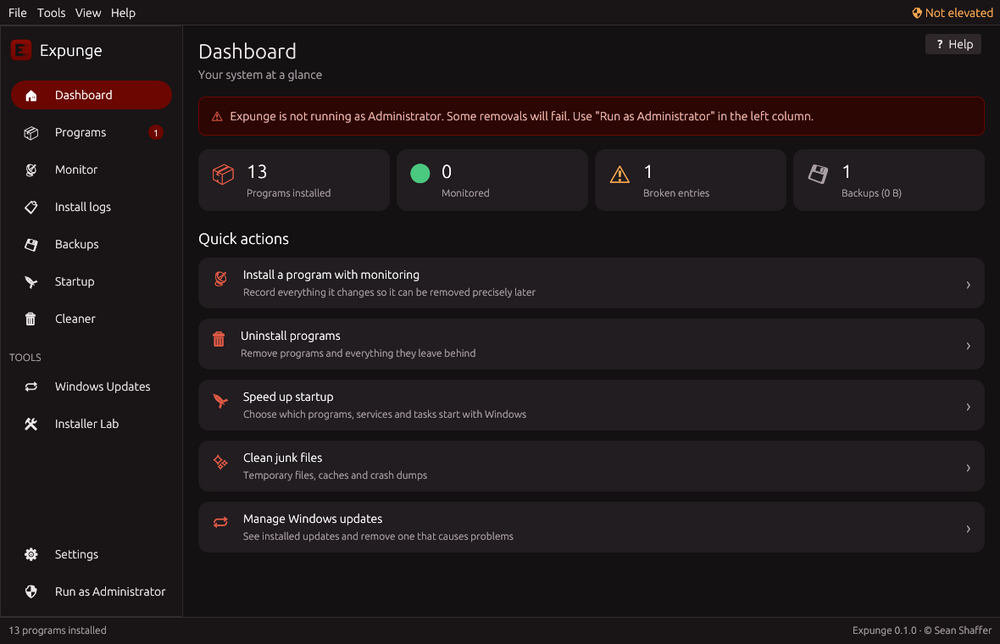
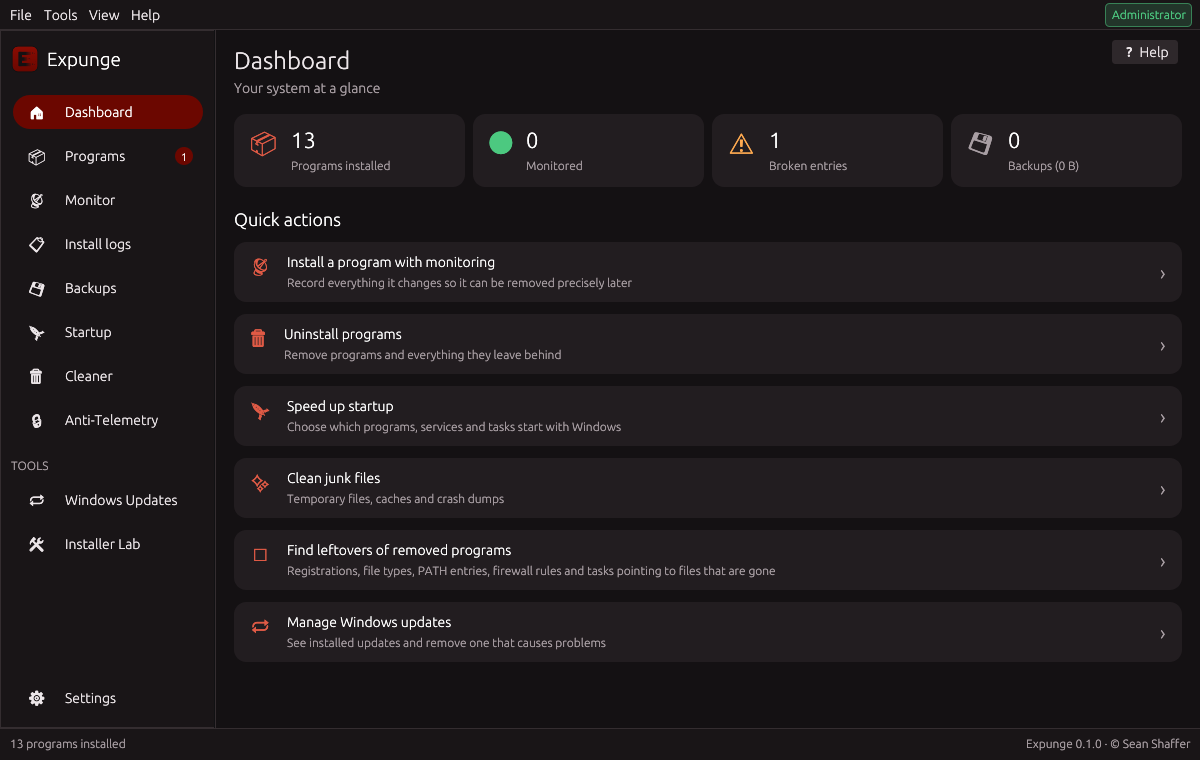
README: professional rewrite with a screenshot showcase
Reorganized and copy-edited the README, expanded the feature list
(including Anti-Telemetry and debloating), and added a six-screenshot
showcase. Demo builds gain sample startup entries, privacy states and an
EXPUNGE_DEMO_ADMIN switch for taking screenshots.

diff --git a/src/platform/mod.rs b/src/platform/mod.rs
@@ -496,6 +496,28 @@ fn demo_programs(r: &MemRegistry) {
         KeyData::new("HKLM\\SOFTWARE\\Microsoft\\Windows NT\\CurrentVersion\\Image File Execution Options\\notepad.exe")
             .with(RegValue::string("Debugger", "\"C:\\Program Files\\Notepad++\\notepad++.exe\" -notepadStyleCmdline -z")),
     );
+    // Typical Run-key autostarts for the Startup page.
+    r.put(
+        KeyData::new("HKCU\\Software\\Microsoft\\Windows\\CurrentVersion\\Run")
+            .with(RegValue::string("Discord", "\"C:\\Users\\demo\\AppData\\Local\\Discord\\Update.exe\" --processStart Discord.exe"))
+            .with(RegValue::string("OneDrive", "\"C:\\Program Files\\Microsoft OneDrive\\OneDrive.exe\" /background"))
+            .with(RegValue::string("Spotify", "\"C:\\Users\\demo\\AppData\\Roaming\\Spotify\\Spotify.exe\" --autostart --minimized")),
+    );
+    r.put(
+        KeyData::new("HKLM\\SOFTWARE\\Microsoft\\Windows\\CurrentVersion\\Run")
+            .with(RegValue::string("SecurityHealth", "%windir%\\system32\\SecurityHealthSystray.exe"))
+            .with(RegValue::string("RtkAudUService", "\"C:\\Windows\\System32\\DriverStore\\FileRepository\\realtekservice.inf_amd64\\RtkAudUService64.exe\" -background")),
+    );
+    // A couple of privacy settings already changed, so the Anti-Telemetry
+    // page shows a mix of states.
+    r.put(
+        KeyData::new("HKCU\\Software\\Microsoft\\Windows\\CurrentVersion\\AdvertisingInfo")
+            .with(RegValue::dword("Enabled", 0)),
+    );
+    r.put(
+        KeyData::new("HKCU\\Software\\Microsoft\\Windows\\CurrentVersion\\Themes\\Personalize")
+            .with(RegValue::dword("EnableTransparency", 0)),
+    );
 }
 
 #[cfg(windows)]
@@ -599,7 +621,8 @@ pub fn is_elevated() -> bool {
     }
     #[cfg(not(windows))]
     {
-        false
+        // Demo builds can pretend to be elevated, for screenshots.
+        std::env::var_os("EXPUNGE_DEMO_ADMIN").is_some()
     }
 }
 

diff --git a/README.md b/README.md
@@ -3,112 +3,150 @@
 </p>
 
 <p align="center">
-  <b>Open Source Install Monitor & Uninstaller</b> for Windows 11.<br>
-  Record what an installation changes. Remove exactly that — and nothing else.
+  <b>Open-source install monitor, uninstaller, and privacy toolkit for Windows 11</b><br>
+  Record exactly what an installation changes, then remove exactly that, and nothing else.
 </p>
 
 <p align="center">
   <a href="https://github.com/SeanShaffer88/ExpungeUninstaller/releases/latest"><img alt="Download" src="https://img.shields.io/github/v/release/SeanShaffer88/ExpungeUninstaller?label=download&color=e53935"></a>
   <a href="https://github.com/SeanShaffer88/ExpungeUninstaller/actions/workflows/ci.yml"><img alt="CI" src="https://github.com/SeanShaffer88/ExpungeUninstaller/actions/workflows/ci.yml/badge.svg"></a>
   <a href="LICENSE"><img alt="License: GPL v3" src="https://img.shields.io/badge/license-GPLv3-blue"></a>
+  <img alt="Platform: Windows 11" src="https://img.shields.io/badge/platform-Windows%2011-0078d4">
+</p>
+
+<p align="center">
+  <a href="#showcase">Showcase</a> •
+  <a href="#features">Features</a> •
+  <a href="#download">Download</a> •
+  <a href="#getting-started">Getting started</a> •
+  <a href="#command-line">Command line</a> •
+  <a href="#building-from-source">Building</a>
 </p>
 
 ---
 
-Most uninstallers run the vendor's uninstaller and then *guess* what was left behind. Free tools like Regshot can show you a before/after diff, but stop there.
+## Overview
 
-**Expunge closes that gap.** It snapshots the system before and after an installation, saves the exact list of files, folders, registry keys and values, services and scheduled tasks that changed, and later turns that record into a precise, reversible removal plan. Everything it deletes is backed up first, so every removal can be undone.
+Most uninstallers run the vendor's own uninstaller and then *guess* at what was left behind. Snapshot tools such as Regshot can show a before-and-after comparison, but they stop there.
 
-It is a free, GPL-licensed alternative to commercial tools like Total Uninstall Pro — friendly enough for someone new to computers, and deep enough for developers testing their own installers.
+**Expunge closes that gap.** It takes a snapshot of the system before and after an installation and records every file, folder, registry key and value, service, and scheduled task that changed. Later, it turns that record into a precise, reviewable removal plan. Everything Expunge deletes or modifies is backed up first, so every operation can be undone.
 
-<p align="center">
-  <img src="docs/screenshots/dashboard.png" alt="Expunge dashboard" width="49%">
-  <img src="docs/screenshots/programs.png" alt="Expunge program list" width="49%">
-</p>
+Beyond uninstalling, Expunge brings together the tools needed to keep Windows 11 lean and private: a startup manager, a junk cleaner, a debloater, and an Anti-Telemetry page with reversible privacy settings.
+
+Expunge is a free, GPL-licensed alternative to commercial tools such as Total Uninstall Pro. It is approachable enough for someone new to computers and thorough enough for developers testing their own installers.
+
+## Showcase
+
+<table>
+  <tr>
+    <td width="50%"><img src="docs/screenshots/dashboard.png" alt="Dashboard"><br><b>Dashboard</b>: an overview of installed programs, monitored installations, broken entries, and backups, with one-click access to common tasks.</td>
+    <td width="50%"><img src="docs/screenshots/programs.png" alt="Programs"><br><b>Programs</b>: every installed desktop program and Store app, with sizes, available updates, signature status, and full details for the selected program.</td>
+  </tr>
+  <tr>
+    <td width="50%"><img src="docs/screenshots/anti-telemetry.png" alt="Anti-Telemetry"><br><b>Anti-Telemetry</b>: privacy and debloating settings grouped by category, with Minimal, Standard, and Advanced presets and exact undo.</td>
+    <td width="50%"><img src="docs/screenshots/startup.png" alt="Startup manager"><br><b>Startup manager</b>: startup programs, services, scheduled tasks, and every other autostart location in one place.</td>
+  </tr>
+  <tr>
+    <td width="50%"><img src="docs/screenshots/monitor.png" alt="Install monitor"><br><b>Install monitor</b>: install a program under monitoring, or record any change manually, including Store and winget installations.</td>
+    <td width="50%"><img src="docs/screenshots/cleaner.png" alt="Junk cleaner"><br><b>Junk cleaner</b>: temporary files, crash dumps, logs, and caches, with an explanation of each category.</td>
+  </tr>
+</table>
 
 ## Features
 
-**Install monitoring**
-- **Install and monitor** — pick an installer, or just right-click it in Explorer → **Install with Expunge**; Expunge snapshots, runs it, and records every change.
-- **Manual monitoring** for anything else (Microsoft Store, winget, scripts, portable apps).
-- Monitoring **survives restarts**, so installers that need a reboot are captured correctly.
-- **Automatic exclusions** ignore temporary files, logs and browser/app caches, so logs contain only the installer's real changes. **Learn background noise** finds what your PC changes on its own and excludes it too.
-- Review the capture before saving and drop background noise with one click.
-- Detects the program's name, publisher and version automatically.
+### Install monitoring
+- **Install and monitor:** choose an installer, or right-click it in File Explorer and select **Install with Expunge**. Expunge takes a snapshot, runs the installer, and records every change.
+- **Manual monitoring** for anything else, including Microsoft Store apps, winget packages, scripts, and portable applications.
+- **Restart-safe:** monitoring continues across restarts, so installers that require a reboot are captured completely.
+- **Automatic exclusions:** temporary files, logs, and browser and application caches are ignored, so each log contains only the installer's real changes.
+- **Background-noise learning:** Expunge observes what your PC changes on its own and offers to exclude it from future captures.
+- **Review before saving:** inspect every captured change and discard background noise with one click.
+- **Automatic detection** of the program's name, publisher, and version.
 
-**Precise uninstall**
-- Reverts a monitored installation exactly: deletes added files, folders, keys and values, **restores** values the installer changed or removed, stops and deletes services, removes scheduled tasks.
-- **Smart PATH repair** — removes only the entries the installer added to `PATH`, keeping changes you made since.
-- Files the program created later (settings, caches) are kept unless you choose to remove them.
-- Locked files are scheduled for deletion at the next restart.
+### Precise uninstallation
+- **Exact reversal** of a monitored installation: added files, folders, registry keys, and values are deleted; values the installer changed or removed are **restored**; services are stopped and deleted; and scheduled tasks are removed.
+- **Smart PATH repair:** only the entries the installer added to `PATH` are removed; changes you made afterward are preserved.
+- **User data is respected:** files the program created later, such as settings and caches, are kept unless you choose to remove them.
+- **Locked files** are scheduled for deletion at the next restart.
 
-**Classic uninstaller (for programs that weren't monitored)**
-- Lists desktop programs (64-bit, 32-bit, per-user) with their icons, plus Microsoft Store apps.
-- Runs the vendor uninstaller, then scans for leftovers: folders, shortcuts, registry keys, autostart entries, App Paths, services, COM registrations, file types and associations, context-menu entries and shell extensions, environment variables and `PATH` entries, firewall rules, scheduled tasks, and folders left empty.
-- **Unattended batch uninstall**: queue any number of programs and walk away. Silent switches are detected per installer type (Windows Installer, Inno Setup, NSIS, WiX, Squirrel), uninstallers run one at a time, restarts are held until the end, stuck ones are skipped, and one combined leftover scan follows.
-- **Silent uninstall** for a single program, and **forced removal** when the uninstaller is broken.
-- **Broken entry finder** for programs whose uninstaller or folder no longer exists.
-- **Leftovers of removed programs**: a system-wide scan for registrations, file types, shell extensions, PATH entries, firewall rules and tasks that point to files that are gone.
-- **Trust info**: shows who digitally signed each program, and flags unsigned programs and broken signatures (possible tampering).
-- Real folder sizes for programs that don't report one.
-- **Updates via winget**: see which programs have a newer version and update one or all of them silently.
+### Classic uninstaller
+For programs that were installed without monitoring:
+- **Complete program list:** 64-bit, 32-bit, and per-user desktop programs with their icons, plus Microsoft Store apps.
+- **Deep leftover scan:** after the vendor's uninstaller finishes, Expunge searches for remaining folders, shortcuts, registry keys, autostart entries, App Paths, services, COM registrations, file types and associations, context-menu entries, shell extensions, environment variables, `PATH` entries, firewall rules, scheduled tasks, and folders left empty.
+- **Unattended batch uninstallation:** queue any number of programs and walk away. Silent switches are detected for each installer technology (Windows Installer, Inno Setup, NSIS, WiX, and Squirrel); uninstallers run one at a time; restarts are deferred until the end; stalled uninstallers are skipped; and a single combined leftover scan follows.
+- **Silent uninstallation** for individual programs, and **forced removal** when a program's uninstaller is broken or missing.
+- **Broken-entry finder** for programs whose uninstaller or installation folder no longer exists.
+- **Orphan scan:** a system-wide search for registrations, file types, shell extensions, `PATH` entries, firewall rules, and tasks that point to files that no longer exist.
+- **Trust information:** shows who digitally signed each program, and flags unsigned programs and invalid signatures that may indicate tampering.
+- **Accurate sizes** for programs that do not report their own.
+- **Updates through winget:** see which programs have newer versions and update one or all of them silently.
+
+### Anti-Telemetry and debloating
+- **Telemetry and data collection:** limit diagnostic data to the minimum, turn off the advertising ID, app-launch tracking, typing and handwriting data collection, cloud search and Cortana, and the inventory and compatibility reporters.
+- **Privacy and app permissions:** deny Store apps access to the camera, microphone, location, contacts, calendar, call history, email, and messages; turn off location services; stop background apps; and remove tips, ads, and automatically installed apps.
+- **Bloatware and AI features:** remove pre-installed consumer apps (optionally for new user accounts as well), and turn off Windows Copilot and Recall.
+- **Explorer and search:** restore the full context menu, open File Explorer to *This PC* with file extensions and hidden files visible, turn off transparency effects, and stop the search indexer.
+- **Services:** disable DiagTrack, dmwappushservice, Windows Error Reporting, and, optionally, SysMain.
+- **Windows Update control:** defer feature updates by 365 days and quality updates by four days, or pause updates for seven days.
+- **Network:** stop automatic connections to open hotspots, and switch to a secure DNS provider (Cloudflare, Quad9, Google, or AdGuard) with one click.
+- **Performance and repair:** enable the Ultimate Performance power plan, and run System File Checker, DISM RestoreHealth, a network reset, or winget re-registration.
+- **Built-in safeguards:** Minimal, Standard, and Advanced presets; a restore point before every change; and a record of every previous value, so each setting can be reversed exactly.
+
+### System tools
+- **Startup manager:** Run keys and Startup folders (with Task Manager–compatible enabling and disabling), services and drivers, and scheduled tasks. Advanced mode adds every other autostart location: Winlogon, Active Setup, Image File Execution Options, AppInit DLLs, Explorer extensions, icon overlays, browser helper objects, boot-time programs, and WMI subscriptions.
+- **Junk cleaner:** temporary files, crash and memory dumps, Windows logs, Delivery Optimization and Windows Update downloads, shader and browser caches, Prefetch data, and the Recycle Bin.
+- **Deep cleanup** (Advanced mode): the previous Windows installation (Windows.old), superseded Windows components, files of disabled features, and old restore points. Each item is analyzed first and confirmed separately.
+- **Windows Updates manager** (Advanced mode): list installed updates and uninstall individual ones. Permanent servicing-stack updates are clearly labeled.
 - **Windows features and app aliases** (Advanced mode): turn optional Windows features on or off, and see which app execution aliases are active.
+- **Program transfer:** package programs together with their files, settings, and registry entries, then restore them on another PC. Includes a compatibility check, automatic path rewriting for different user names or drives, and one-click undo.
+- **"Which program created this?":** search for any file or registry path across all monitored installations.
+- **Repackaging:** turn a monitored installation into a deployable folder containing a silent `install.ps1`, an `install.reg`, and an `uninstall.ps1`.
+- **Export** install logs as an HTML report, a `.reg` undo script, a PowerShell removal script, or JSON for import on another PC.
 
-**Safety first**
-- Automatic **backups** of everything removed or changed — files go to a quarantine folder and registry entries are also exported as a timestamped `.reg` file you can double-click to restore. Restore any operation from the Backups page.
-- Optionally send removed files to the **Recycle Bin** as well.
-- Optional **System Restore point** before uninstalling.
-- Hard-coded protection for critical folders and registry keys — they can never be deleted, whatever a log says.
+### Safety
+- **Automatic backups** of everything removed or changed. Files are moved to a quarantine folder, and registry entries are also exported to a timestamped `.reg` file that can be restored with a double-click. Any operation can be restored from the Backups page.
+- **Optional Recycle Bin copies** of removed files.
+- **Optional System Restore point** before uninstalling.
+- **Hard-coded protection** for critical folders and registry keys: they can never be deleted, regardless of what a log contains.
+- **Safety labels** on every removal item: *Safe*, *Review*, or *Careful*.
 
-**Tools**
-- **Anti-Telemetry**: turn off Windows telemetry, ads, suggestions, Copilot and Recall; restrict app permissions; delay or pause updates; set a private DNS; remove pre-installed apps; run Windows repair tools. Minimal / Standard / Advanced presets, a restore point before every change, and exact one-click undo.
-- **Windows Updates** window (Advanced mode): list installed updates and uninstall individual ones (uses DISM, which works for modern cumulative updates; permanent servicing-stack updates are labelled).
-- **Startup manager**: Run keys and Startup folders (Task Manager-compatible enable/disable), services and drivers, scheduled tasks, plus (Advanced) every other autostart location: Winlogon, Active Setup, program replacements, AppInit DLLs, Explorer extensions, icon overlays, browser helpers, boot programs and WMI subscriptions.
-- **Junk cleaner**: temp files, crash and memory dumps, Windows logs, Delivery Optimization and Windows Update downloads, shader and browser caches, Prefetch, Recycle Bin.
-- **Deep cleanup** (Advanced): previous Windows installation (Windows.old), outdated Windows components (DISM), files of turned-off features, and old restore points, each analyzed first and confirmed separately.
-- **Transfer programs to another PC**: pack programs with their files, settings and registry entries into one file and restore them on a new PC, with a compatibility check, path rewriting for different user names or drives, and one-click undo.
-- **"Which program created this?"** — search any file or registry path across all monitored installs.
-- **Repackage** a monitored installation as a folder with a silent `install.ps1`, `install.reg` and `uninstall.ps1`, for deploying it to other PCs.
-- **Export** install logs as an HTML report, a `.reg` undo script, a PowerShell removal script, or JSON (import them on another PC).
+### Accessibility and ease of use
+- **Simple and Advanced modes**, chosen on first launch. Simple mode uses plain language and offers only options that cannot harm Windows or slow the PC; Advanced mode shows every tool and technical detail.
+- **Contextual help** on every page (the Help button or F1), explaining terms such as *snapshot* and *leftover* in everyday language.
+- **Full keyboard access:** a visible focus ring, arrow-key navigation in lists, Esc to close dialogs, and shortcuts for every page (Ctrl+1 to Ctrl+9, Ctrl+Tab, Ctrl+F, F5, Delete, and F1).
+- **Screen-reader support** for Narrator and NVDA, adjustable text size, and a high-contrast option.
 
-**For everyone**
-- **Fully keyboard accessible** and screen-reader friendly (Narrator, NVDA): visible focus ring, arrow-key lists, Esc closes dialogs, shortcuts for every page.
-- **Simple and Advanced modes**, chosen on first launch. Simple mode uses plain language and only offers options that can't harm Windows or slow the PC; Advanced mode shows every technical detail and tool.
-- **Help on every page** (Help button or F1) explaining terms like *snapshot* and *leftover* in everyday words.
-- **Safety labels** on every removal item: *Safe*, *Review* or *Careful*.
-- **Accessible**: screen-reader support, adjustable text size, high-contrast option, full keyboard shortcuts (Ctrl+1–9 pages, Ctrl+F search, F5 refresh, Delete uninstall, F1 help).
+### For developers: Installer Lab
+- **Installer lint:** reviews a recorded installation for common packaging mistakes, such as a missing or incomplete uninstall entry, files written to System32, per-user data from per-machine installations, `PATH` edits, autostart entries, services, scheduled tasks, shell extensions, file associations, firewall rules, and changes to shared values. Each finding includes advice, and the report can be exported as Markdown.
+- **Uninstaller test:** runs your program's own uninstaller and reports exactly what it left behind or failed to restore, then optionally cleans it up.
+- **Snapshot comparison:** take named snapshots at any time and compare any two.
+- **CI-ready command line:** `lint` and `test-uninstall` commands with exit codes and `--json` output for build pipelines.
 
-**For developers — Installer Lab**
-- **Installer lint**: reviews a recorded installation for packaging mistakes (missing or incomplete uninstall entry, files in System32, per-user data from per-machine installs, PATH edits, autostart, services, scheduled tasks, shell extensions, file associations, firewall rules, changed shared values) with advice for each. Export as Markdown.
-- **Uninstaller test**: runs your program's own uninstaller and reports exactly what it left behind or failed to restore — then cleans it up if you want.
-- **Snapshot compare**: take named snapshots any time and diff any two.
-- **CI-ready CLI**: `lint` and `test-uninstall` commands with exit codes and `--json` output for build pipelines.
-
-**And**
-- Dark interface with a native red Windows 11 window border.
-- **9 languages**: English, Español, Deutsch, Français, Português (Brasil), Italiano, Русский, 简体中文, 日本語 — add more without recompiling (see [Translating](docs/TRANSLATING.md)).
-- Admin check at every launch, with one-click relaunch as Administrator.
-- **No dependencies**: a single native exe; no .NET, no Visual C++ runtime, nothing to download.
-- Installer **or** portable mode.
-- Full **command line** for scripting.
+### Design and distribution
+- **Built for Windows 11:** a dark interface with a native red Windows 11 window border.
+- **Nine languages:** English, Español, Deutsch, Français, Português (Brasil), Italiano, Русский, 简体中文, and 日本語. Additional languages can be added without recompiling (see [Translating](docs/TRANSLATING.md)).
+- **Administrator check** at every launch, with a one-click relaunch as administrator.
+- **No dependencies:** a single native executable, with no .NET, no Visual C++ runtime, and nothing else to download.
+- **Installer or portable:** use whichever suits you.
+- **Full command line** for scripting and automation.
 
 ## Download
 
-Get the latest version from the [Releases page](https://github.com/SeanShaffer88/ExpungeUninstaller/releases/latest):
+Download the latest version from the [Releases page](https://github.com/SeanShaffer88/ExpungeUninstaller/releases/latest).
 
-| File | What it is |
+| File | Description |
 |---|---|
-| `Expunge-Setup-x.y.z.exe` | Installer: Program Files, Start menu, Apps & features entry |
-| `Expunge-x.y.z-portable.zip` | Portable: unzip anywhere; data stays next to the exe |
+| `Expunge-Setup-x.y.z.exe` | Installer: installs to Program Files and adds a Start menu shortcut and an *Installed apps* entry. |
+| `Expunge-x.y.z-portable.zip` | Portable: unzip anywhere; all data is stored next to the executable. |
 
-Requirements: Windows 11 (build 22000 or later), 64-bit. Expunge is built for Windows 11 only and will not start on older Windows. Run as Administrator for full functionality — Expunge offers to relaunch itself elevated.
+**System requirements:** 64-bit Windows 11 (build 22000 or later). Expunge is designed exclusively for Windows 11 and will not start on earlier versions of Windows. Administrator rights are required for full functionality; Expunge offers to relaunch itself with elevated rights.
 
-## How to use it
+## Getting started
 
-1. **Monitor → Choose installer…** and pick a setup file. Wait for the "before" snapshot.
-2. Install the program normally (run it once if you like, so first-run settings are captured too).
-3. Click **Finish monitoring**, review the changes, and **Save install log**.
-4. Later: **Programs** (or **Install logs**) → **Uninstall**. Review the plan and remove. Changed your mind? **Backups → Restore**.
+1. Select **Monitor → Choose installer…** and pick a setup file. Wait for the "before" snapshot to finish.
+2. Install the program as usual. Optionally, run it once so that its first-run settings are captured as well.
+3. Click **Finish monitoring**, review the changes, and click **Save install log**.
+4. When you want to remove the program, go to **Programs** (or **Install logs**) and click **Uninstall**. Review the plan, then confirm. If you change your mind, use **Backups → Restore**.
 
 ## Command line
 
@@ -129,12 +167,12 @@ expunge transfer import moved.expunge
 expunge --help
 ```
 
-Installer QA in a build pipeline:
+Installer quality checks in a build pipeline:
 
 ```
 expunge monitor --name MyApp --no-prompt --json -- dist\MyApp-Setup.exe /S
-expunge lint <log-id> --strict          # exit 2 on errors/warnings
-expunge test-uninstall <log-id> --quiet # exit 2 if anything was left behind
+expunge lint <log-id> --strict          # exits with code 2 on errors or warnings
+expunge test-uninstall <log-id> --quiet # exits with code 2 if anything was left behind
 ```
 
 ## Building from source
@@ -145,26 +183,26 @@ cd ExpungeUninstaller
 cargo build --release
 ```
 
-Builds with Rust (stable) on Windows. **No Visual Studio on your PC?** Push to GitHub and let the included Actions workflow build it, or cross-compile from Linux (see `scripts/cross-env.sh`). Releases are built automatically when a `v*` tag is pushed.
+Expunge builds with stable Rust on Windows. If Visual Studio is not installed, push to GitHub and let the included Actions workflow build it, or cross-compile from Linux (see `scripts/cross-env.sh`). Releases are built automatically when a `v*` tag is pushed.
 
-The engine (`src/` minus `gui/`) is platform-independent and fully unit-tested with an in-memory registry: `cargo test --lib`.
+The core engine (`src/`, excluding `gui/`) is fully unit-tested against an in-memory registry: `cargo test --lib`.
 
 ## How it works
 
-| Step | What happens |
+| Stage | What happens |
 |---|---|
-| Snapshot | Registry keys and values (raw data, every type) and file metadata under configurable roots, skipping known Windows noise |
-| Diff | Added/removed/changed keys, values and files, compared case-insensitively like Windows |
-| Plan | Services and tasks first, then files, folders (deepest first), registry deletions, then restores |
-| Execute | Every step is backed up first; protected locations are refused; locked files go to delete-on-reboot |
-| Undo | Backups replay in reverse to put everything back |
+| Snapshot | Registry keys and values (raw data of every type) and file metadata are recorded under configurable locations, skipping known Windows noise. |
+| Comparison | Added, removed, and changed keys, values, and files are identified, compared case-insensitively as Windows does. |
+| Plan | Services and tasks are handled first, then files, then folders (deepest first), then registry deletions, and finally restorations. |
+| Execution | Every step is backed up first; protected locations are refused; locked files are scheduled for deletion at restart. |
+| Undo | Backups are replayed in reverse order to restore everything. |
 
 ## Roadmap
 
-See [ROADMAP.md](ROADMAP.md). Ideas and pull requests are welcome — see [CONTRIBUTING.md](CONTRIBUTING.md).
+See [ROADMAP.md](ROADMAP.md). Ideas and pull requests are welcome; see [CONTRIBUTING.md](CONTRIBUTING.md) for guidelines.
 
 ## License
 
 Copyright © 2026 Sean Shaffer.
 
-Expunge is free software: you can redistribute it and/or modify it under the terms of the **GNU General Public License v3** (or any later version). See [LICENSE](LICENSE).
+Expunge is free software: you can redistribute it and/or modify it under the terms of the **GNU General Public License, version 3** (or, at your option, any later version). See [LICENSE](LICENSE) for details.

diff --git a/CHANGELOG.md b/CHANGELOG.md
@@ -7,7 +7,7 @@ All notable changes to Expunge are documented here. The format follows
 ## [Unreleased]
 
 ### Added
-- **Anti-Telemetry page** (Ctrl+9): 24 privacy and tuning switches in eight groups — telemetry and data collection (diagnostic data, advertising ID, app-launch tracking, typing and handwriting data, cloud search and Cortana, inventory and compatibility reporting), app permissions and background apps, suggested content, Copilot and Recall, Explorer and search (classic context menu, Explorer defaults, transparency, search indexing), telemetry services (DiagTrack, dmwappushservice, Windows Error Reporting, SysMain), Windows Update (delay feature updates a year and security updates 4 days, or pause for 7 days), Wi-Fi hotspot auto-connect, and the Ultimate Performance power plan. Each shows whether it is on, off or partly on. **Presets** (Minimal, Standard, Advanced) tick a tier at once; Simple mode shows only the Minimal switches, which can't break anything. A **restore point** is created before every change, and every previous value is **recorded** so unticking an item and applying again restores it exactly (or to Windows' default if it was changed elsewhere). Also: remove pre-installed Store apps (optionally for new user accounts too), **one-click secure DNS** (Cloudflare, Quad9, Google, AdGuard, or back to automatic; IPv4 and IPv6), and **repair tools** (sfc, DISM RestoreHealth, network reset, winget re-registration).
+- **Anti-Telemetry page** (Ctrl+8): 24 privacy and tuning switches in eight groups — telemetry and data collection (diagnostic data, advertising ID, app-launch tracking, typing and handwriting data, cloud search and Cortana, inventory and compatibility reporting), app permissions and background apps, suggested content, Copilot and Recall, Explorer and search (classic context menu, Explorer defaults, transparency, search indexing), telemetry services (DiagTrack, dmwappushservice, Windows Error Reporting, SysMain), Windows Update (delay feature updates a year and security updates 4 days, or pause for 7 days), Wi-Fi hotspot auto-connect, and the Ultimate Performance power plan. Each shows whether it is on, off or partly on. **Presets** (Minimal, Standard, Advanced) tick a tier at once; Simple mode shows only the Minimal switches, which can't break anything. A **restore point** is created before every change, and every previous value is **recorded** so unticking an item and applying again restores it exactly (or to Windows' default if it was changed elsewhere). Also: remove pre-installed Store apps (optionally for new user accounts too), **one-click secure DNS** (Cloudflare, Quad9, Google, AdGuard, or back to automatic; IPv4 and IPv6), and **repair tools** (sfc, DISM RestoreHealth, network reset, winget re-registration).
 - **Install with Expunge** in the right-click menu of `.exe` and `.msi` files: installs under monitoring in one step. Added for all users by Setup, or per user from Settings (portable). Relaunching as administrator keeps the installer.
 - Program icons in the program list and details.
 - **Program trust info**: each program's digital signature is verified offline (Authenticode). Shows who signed it, flags unsigned programs (new "Unsigned" filter) and broken signatures, and warns before uninstalling a program whose signature fails.
